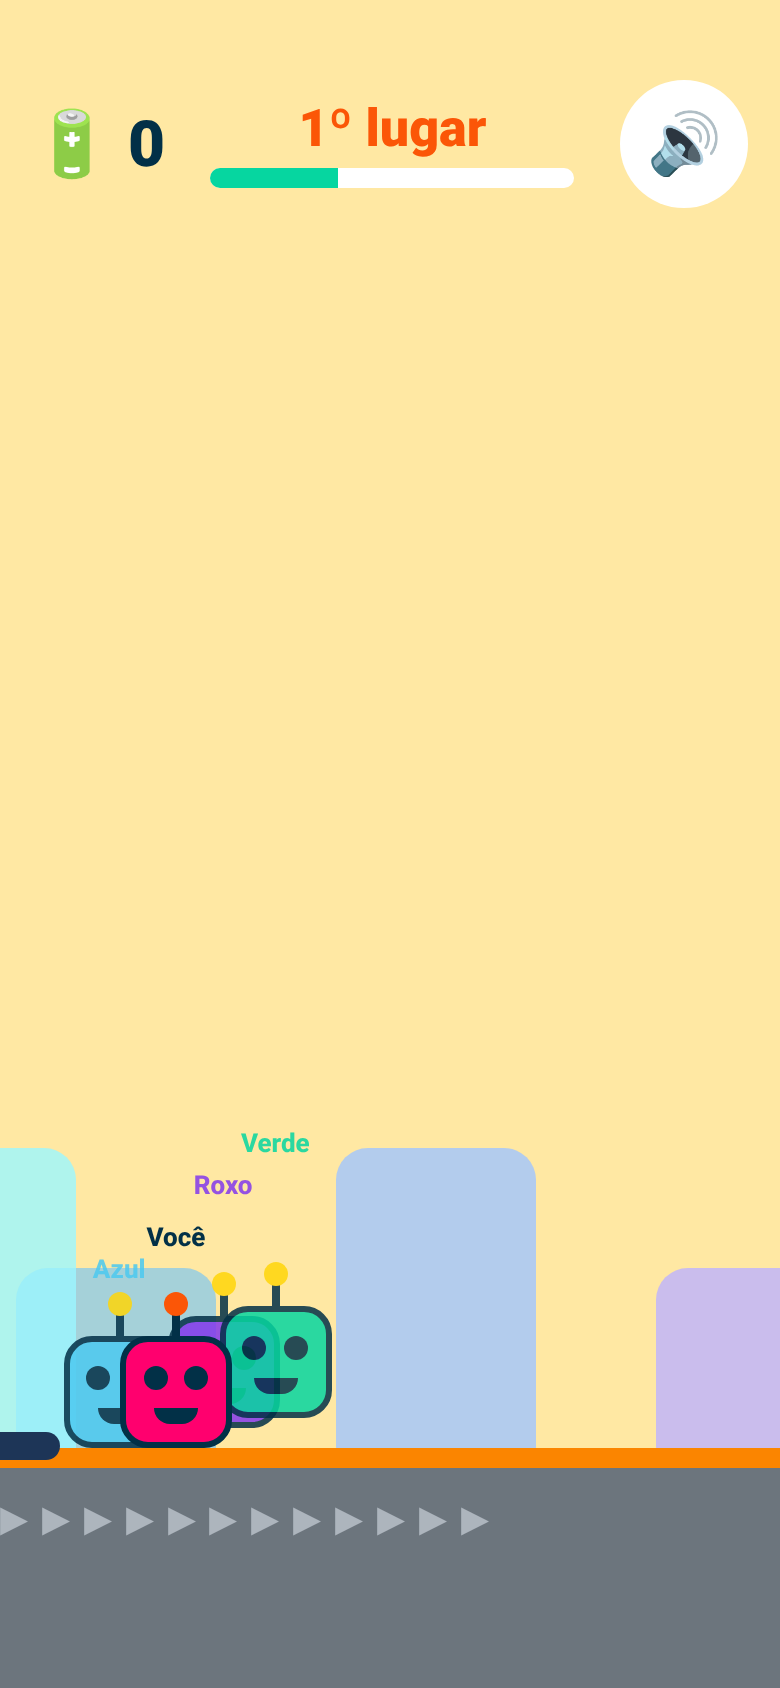
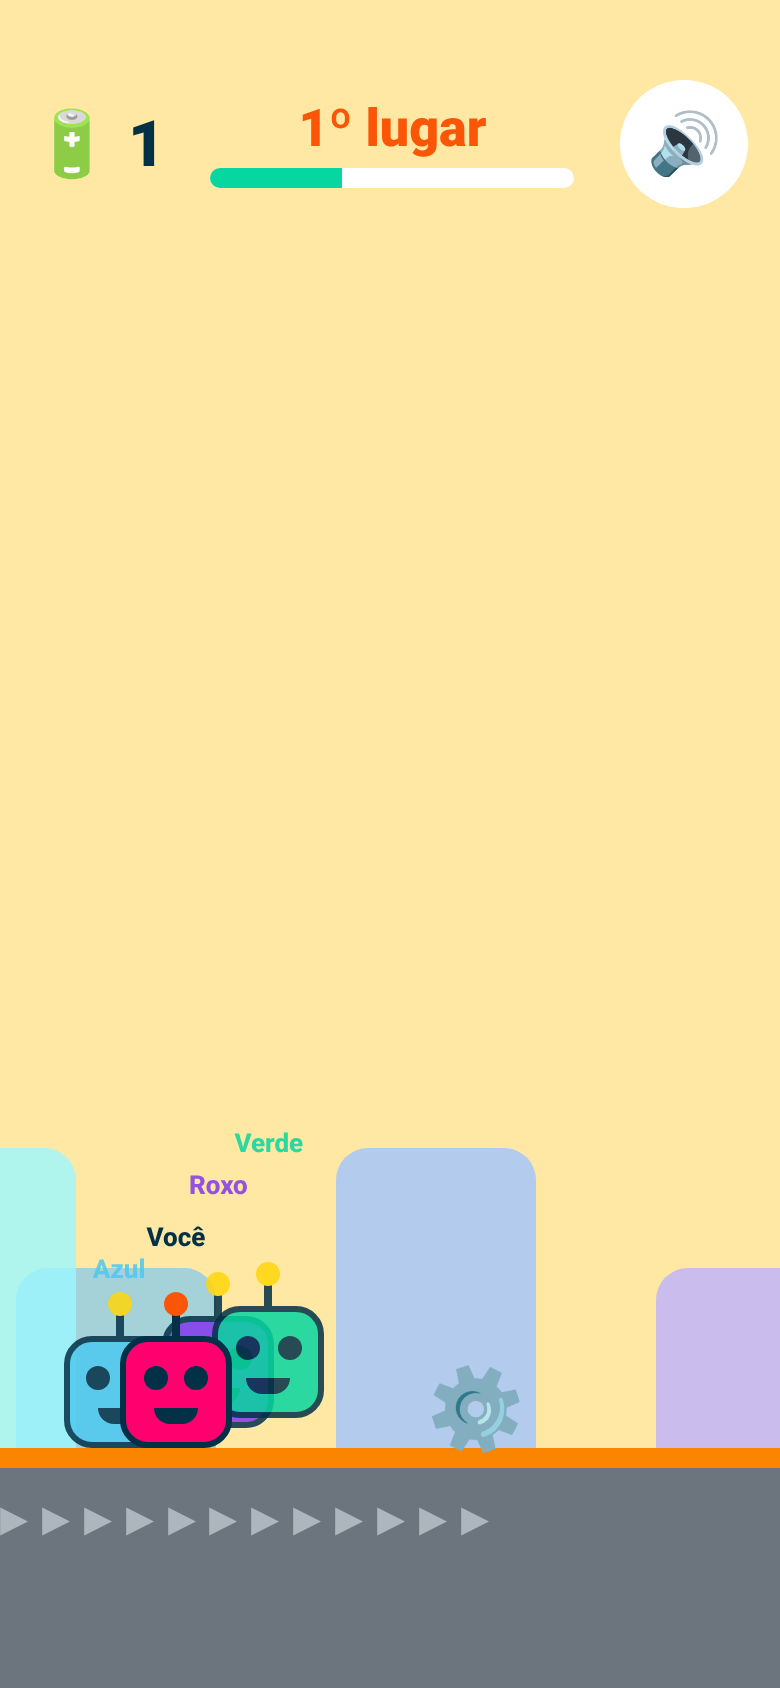
Pódio online: host define a ordem final (fonte única)

diff --git a/App.tsx b/App.tsx
@@ -54,7 +54,10 @@ export default function App() {
   const [muted, setMuted] = useState(false);
   const [best, setBest] = useState(0);
   const [, force] = useState(0);
-  const fresh = (race: boolean) => ({ y: 0, vy: 0, objs: [] as Obj[], score: 0, speed: 260, dist: 0, next: 1.2, id: 0, t: 0, race, slow: 0, boost: 0, rivals: newRivals(), place: 0, online: false, me: 0, ids: [0] as number[], others: {} as Record<number, Other>, track: [] as ReturnType<typeof makeTrack>, myTime: 0, sendT: 0, note: '' });
+  const fresh = (race: boolean) => ({ y: 0, vy: 0, objs: [] as Obj[], score: 0, speed: 260, dist: 0, next: 1.2, id: 0, t: 0, race, slow: 0, boost: 0, rivals: newRivals(), place: 0, online: false, me: 0, ids: [0] as number[], others: {} as Record<number, Other>, track: [] as ReturnType<typeof makeTrack>, myTime: 0, sendT: 0, note: '', finT: {} as Record<number, number>, pod: null as null | { order: number[]; gone: number[] } });
+  // Single source of truth for the online podium: the host (or, if the host left, each phone locally) ranks by race time, ties by player number.
+  const rankFrom = (s: ReturnType<typeof fresh>) => ({ order: Object.entries(s.finT).map(([i, t]) => [Number(i), t] as const).sort((a, b) => a[1] - b[1] || a[0] - b[0]).map(x => x[0]), gone: Object.entries(s.others).filter(([i, o]) => o.gone && s.finT[Number(i)] === undefined).map(([i]) => Number(i)) });
+  const publish = () => { const s = g.current; if (!s.online) return; const isHost = roomRef.current?.isHost; if (!isHost && roomRef.current) return; s.pod = rankFrom(s); if (isHost) roomRef.current?.send({ t: 'podium', order: s.pod.order, gone: s.pod.gone }); force(n => n + 1); };
   const g = useRef(fresh(false));
   const roomRef = useRef<Room | null>(null);
   const [lv, setLv] = useState<{ view: 'choose' | 'join' | 'room' | 'wait'; code: string; err: string; ids: number[] }>({ view: 'choose', code: '', err: '', ids: [] });
@@ -73,12 +76,13 @@ export default function App() {
     if (m.t === 'lobby') setLv(v => ({ ...v, ids: m.ids }));
     else if (m.t === 'start') beginOnline(m.seed, m.ids, roomRef.current?.me ?? 0);
     else if (s.online && m.t === 's' && s.others[m.i]) { s.others[m.i].d = m.d; s.others[m.i].y = m.y; s.others[m.i].seen = Date.now(); }
-    else if (s.online && m.t === 'fin' && s.others[m.i]) { s.others[m.i].fin = m.time; force(n => n + 1); }
-    else if (m.t === 'left') { if (s.online && s.others[m.i]) { s.others[m.i].gone = true; s.note = `Robô ${PNAME[m.i]} saiu`; force(n => n + 1); } }
+    else if (s.online && m.t === 'fin' && s.others[m.i]) { s.others[m.i].fin = m.time; s.finT[m.i] = m.time; publish(); }
+    else if (s.online && m.t === 'podium' && !roomRef.current?.isHost) { s.pod = { order: m.order, gone: m.gone }; force(n => n + 1); }
+    else if (m.t === 'left') { if (s.online && s.others[m.i]) { s.others[m.i].gone = true; s.note = `Robô ${PNAME[m.i]} saiu`; publish(); } }
   };
   const onClose = () => {
     const s = g.current;
-    if (s.online) { Object.values(s.others).forEach(o => { o.gone = true; }); s.note = 'A sala fechou. Continue correndo!'; force(n => n + 1); }
+    if (s.online) { Object.values(s.others).forEach(o => { o.gone = true; }); s.note = 'A sala fechou. Continue correndo!'; roomRef.current = null; publish(); force(n => n + 1); return; }
     else setLv({ view: 'choose', code: '', err: 'A sala fechou.', ids: [] });
     roomRef.current = null;
   };
@@ -92,7 +96,7 @@ export default function App() {
       if (mode === 'podium') roomRef.current?.send({ t: 's', i: s.me, d: s.dist, y: 0 });
       let ch = false;
       for (const [k, o] of Object.entries(s.others)) if (!o.gone && o.fin === undefined && Date.now() - (o.seen ?? 0) > 6000) { o.gone = true; s.note = `Robô ${PNAME[Number(k)]} saiu`; ch = true; }
-      if (ch) force(n => n + 1);
+      if (ch) publish();
     }, 700);
     const bye = () => roomRef.current?.close();
     if (Platform.OS === 'web') window.addEventListener('pagehide', bye);
@@ -127,7 +131,7 @@ export default function App() {
       s.dist += s.speed * dt;
       if (s.online) {
         s.sendT -= dt; if (s.sendT <= 0) { s.sendT = 0.066; roomRef.current?.send({ t: 's', i: s.me, d: s.dist, y: s.y }); }
-        if (s.dist >= FINISH) { s.myTime = s.t; roomRef.current?.send({ t: 'fin', i: s.me, time: s.t }); sfx(660, 0.15, 'triangle'); setTimeout(() => sfx(990, 0.3, 'triangle'), 160); buzz(60); setMode('podium'); force(n => n + 1); return; }
+        if (s.dist >= FINISH) { s.myTime = s.t; s.finT[s.me] = s.t; roomRef.current?.send({ t: 'fin', i: s.me, time: s.t }); publish(); sfx(660, 0.15, 'triangle'); setTimeout(() => sfx(990, 0.3, 'triangle'), 160); buzz(60); setMode('podium'); force(n => n + 1); return; }
       }
       if (s.race && !s.online && s.dist >= FINISH) {
         s.place = 1 + s.rivals.filter(r => r.d >= s.dist).length;
@@ -176,10 +180,6 @@ export default function App() {
 
   const s = g.current;
   const place = s.online ? 1 + Object.values(s.others).filter(o => !o.gone && (o.fin !== undefined || o.d > s.dist)).length : 1 + s.rivals.filter(r => r.d > s.dist).length;
-  const ranking = () => {
-    const all = [{ i: s.me, d: s.dist, fin: mode === 'podium' ? s.myTime : undefined as number | undefined, gone: false }, ...Object.entries(s.others).map(([i, o]) => ({ i: Number(i), ...o }))];
-    return all.sort((a, b) => (a.fin ?? 1e9) - (b.fin ?? 1e9) || b.d - a.d);
-  };
   const ord = ['1º', '2º', '3º', '4º'];
   const gearRot = `${(s.t * 360) % 360}deg`;
   return (
@@ -277,19 +277,23 @@ export default function App() {
       {mode !== 'play' && mode !== 'lobby' && mode !== 'count' && (
         <View style={st.overlay} pointerEvents="box-none">
           <View style={st.card}>
-            {mode === 'podium' && s.online ? (<>
-              <Text style={st.title}>{ranking()[0].i === s.me ? 'Você venceu! 🏆' : 'Que corrida! 🎉'}</Text>
+            {mode === 'podium' && s.online ? (() => {
+              const pod = s.pod ?? { order: [], gone: [] };
+              const pending = s.ids.filter(i => !pod.order.includes(i) && !pod.gone.includes(i));
+              const list = [...pod.order.map((i, k) => ({ i, label: `${k + 1}º` })), ...pending.map(i => ({ i, label: '…' })), ...pod.gone.map(i => ({ i, label: 'saiu' }))];
+              const vis = [list[1], list[0], list[2], list[3]]; const h = [70, 100, 50, 35];
+              return (<>
+              <Text style={st.title}>{pod.order[0] === s.me ? 'Você venceu! 🏆' : pod.order.length ? 'Que corrida! 🎉' : 'Chegou! 🏁'}</Text>
               <View style={st.podium}>
-                {(() => { const r = ranking(); const order = [r[1], r[0], r[2], r[3]]; const h = [70, 100, 50, 35];
-                  return order.map((p, k) => p && (
+                {vis.map((p, k) => p && (
                     <View key={p.i} style={{ alignItems: 'center', marginHorizontal: 4 }}>
                       <Text style={{ fontSize: 14, fontWeight: '800', color: '#023047' }}>{p.i === s.me ? 'Você' : PNAME[p.i]}</Text>
-                      <View style={[st.mini, { backgroundColor: PCOL[p.i], opacity: p.gone ? 0.3 : 1 }]} />
-                      <View style={[st.step, { height: h[k], width: 60 }]}><Text style={st.stepText}>{p.fin === undefined && !p.gone ? '…' : ['2º', '1º', '3º', '4º'][k]}</Text></View>
-                    </View>)); })()}
+                      <View style={[st.mini, { backgroundColor: PCOL[p.i], opacity: p.label === 'saiu' ? 0.3 : 1 }]} />
+                      <View style={[st.step, { height: h[k], width: 60 }]}><Text style={[st.stepText, p.label === 'saiu' && { fontSize: 14 }]} testID={'place-' + p.i}>{p.label}</Text></View>
+                    </View>))}
               </View>
-              <Text style={st.sub}>{Object.values(s.others).some(o => o.fin === undefined && !o.gone) ? 'Esperando os outros robôs chegarem…' : `Você pegou ${s.score} bateria${s.score === 1 ? '' : 's'}!`}</Text>
-            </>) : mode === 'podium' ? (<>
+              <Text style={st.sub}>{pending.length ? 'Esperando os outros robôs chegarem…' : `Você pegou ${s.score} bateria${s.score === 1 ? '' : 's'}!`}</Text>
+              </>); })() : mode === 'podium' ? (<>
               <Text style={st.title}>{s.place === 1 ? 'Nodex venceu! 🏆' : 'Que corrida! 🎉'}</Text>
               <View style={st.podium}>
                 {(() => { const list = [{ name: 'Nodex', color: '#4CC9F0', d: s.dist + (s.place === 1 ? 1e6 : 0) }, ...s.rivals].sort((x, y) => y.d - x.d); const top = list.slice(0, 3); const order = [top[1], top[0], top[2]]; const h = [70, 100, 50];

diff --git a/online.ts b/online.ts
@@ -4,7 +4,7 @@ import { Platform } from 'react-native';
 
 export type Msg =
   | { t: 'hello'; you: number } | { t: 'lobby'; ids: number[] } | { t: 'start'; seed: number; ids: number[] }
-  | { t: 's'; i: number; d: number; y: number } | { t: 'fin'; i: number; time: number } | { t: 'left'; i: number } | { t: 'full' };
+  | { t: 's'; i: number; d: number; y: number } | { t: 'fin'; i: number; time: number } | { t: 'left'; i: number } | { t: 'podium'; order: number[]; gone: number[] } | { t: 'full' };
 export type Room = { code: string; me: number; isHost: boolean; send: (m: Msg) => void; close: () => void; ids: () => number[]; lock: () => void };
 export type Handlers = { onMsg: (m: Msg) => void; onClose: () => void };
 
